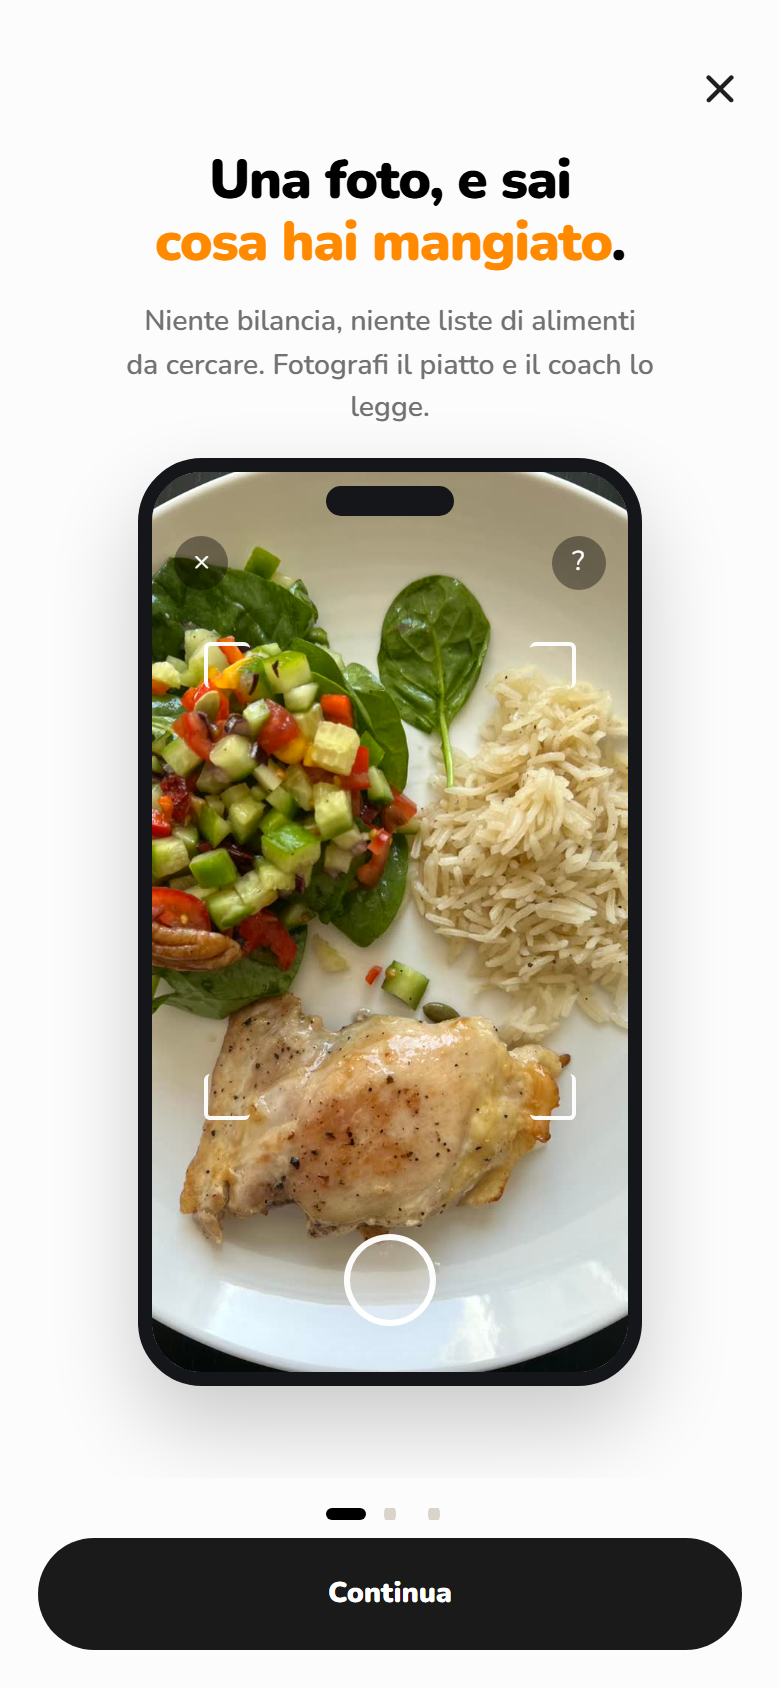
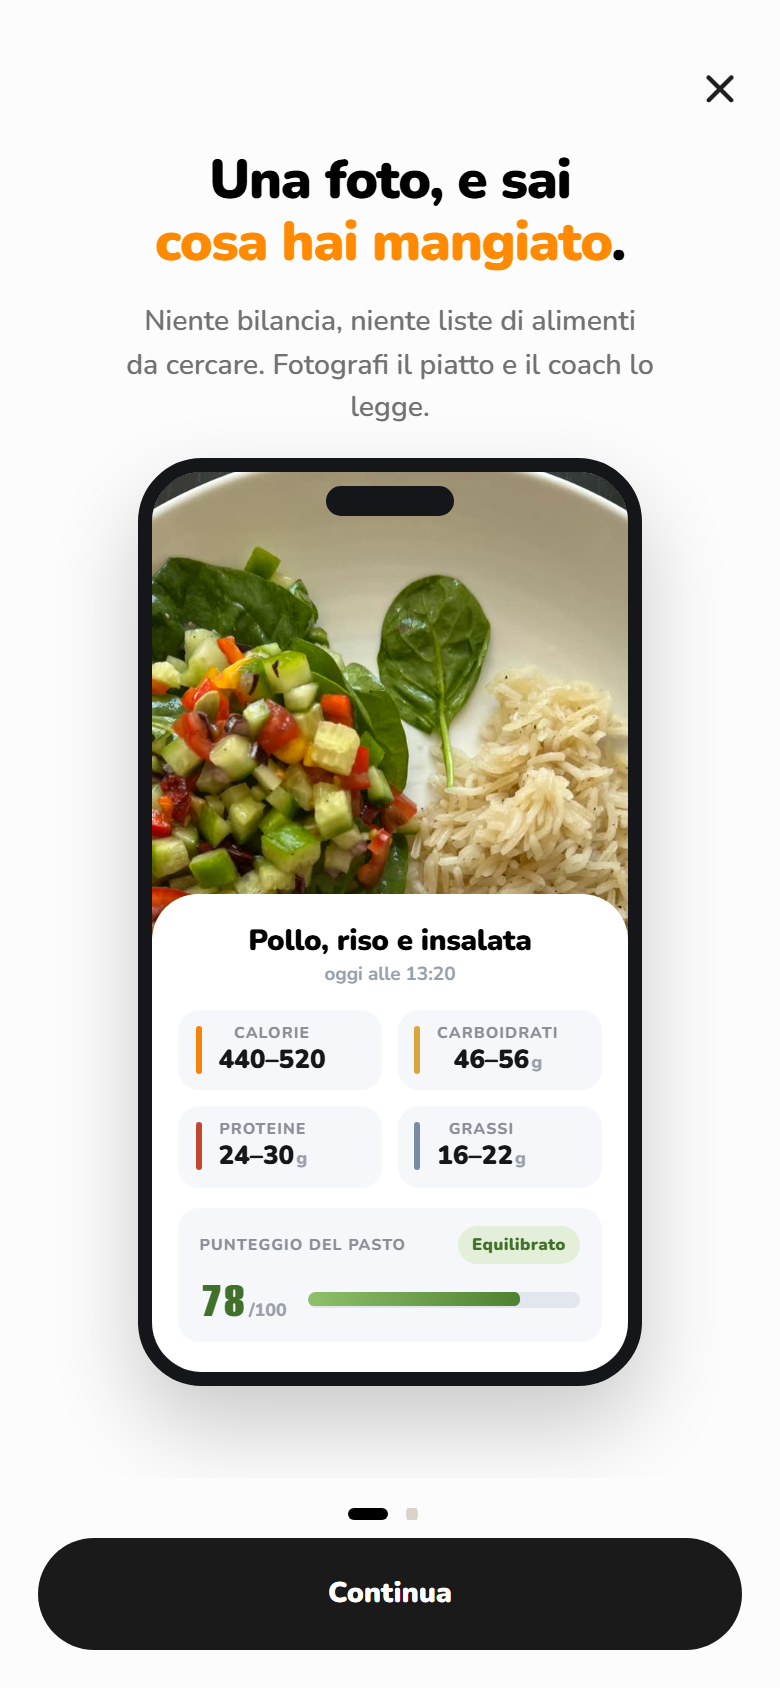
chore(internal): il contacalorie è passato a due schermate
Quella di mezzo, il diario che si riempie, non esce più. La scheda ne parlava
ancora al presente e gli scatti erano tre.

diff --git a/public/internal/js/kpi.js b/public/internal/js/kpi.js
@@ -7553,13 +7553,13 @@ const CREATIVE_REGISTRY = [
     where: 'Overlay dentro il flusso della scansione del pasto, al posto della card del risultato.',
     when: 'Quando l\'utente fotografa un piatto con i crediti AI già finiti: il paywall prende il posto del risultato che si aspettava.',
     exit: 'La × dell\'overlay, e si torna alla fotocamera.',
-    what: 'Tre schermate che parlano di CIBO, non di allenamenti: la card del risultato come la vedrebbe, il diario che si riempie, i piani. Prima quel momento finiva nel funnel della chat, e chi stava contando le calorie si trovava a leggere di allenamenti da cinque minuti.',
+    what: 'Due schermate che parlano di CIBO, non di allenamenti: il telefono disegnato col gesto per intero — il piatto inquadrato, lo scatto, la scheda del pasto che sale — e subito i piani. Prima quel momento finiva nel funnel della chat, e chi stava contando le calorie si trovava a leggere di allenamenti da cinque minuti.',
     file: 'app/src/components/PremiumProposals/MealScanPaywall/MealScanPaywallFlow.tsx',
     screens: [
-      { idx: 0, t: 'Cosa ottieni', d: 'la card del piatto analizzato' },
-      { idx: 1, t: 'Dove ti porta', d: 'il diario che si riempie, la domanda al coach' },
-      { idx: 2, t: 'I prezzi', d: 'disegno di questa proposta' },
+      { idx: 0, t: 'La dimostrazione', d: 'il gesto per intero dentro il telefono disegnato' },
+      { idx: 1, t: 'I prezzi', d: 'disegno di questa proposta' },
     ],
+    note: 'Dal 15/09/2026 le schermate sono DUE. In mezzo c\'era «Dove ti porta», il diario che si riempie: tolta perché chi arriva qui ha appena sbattuto contro i crediti finiti e l\'app la sta già usando — ogni schermata prima del prezzo è gente che se ne va. Negli sprint chiusi prima di quella data le caselle sono tre, ed è giusto così.',
   },
   {
     variant: 'onboarding_funnel',
